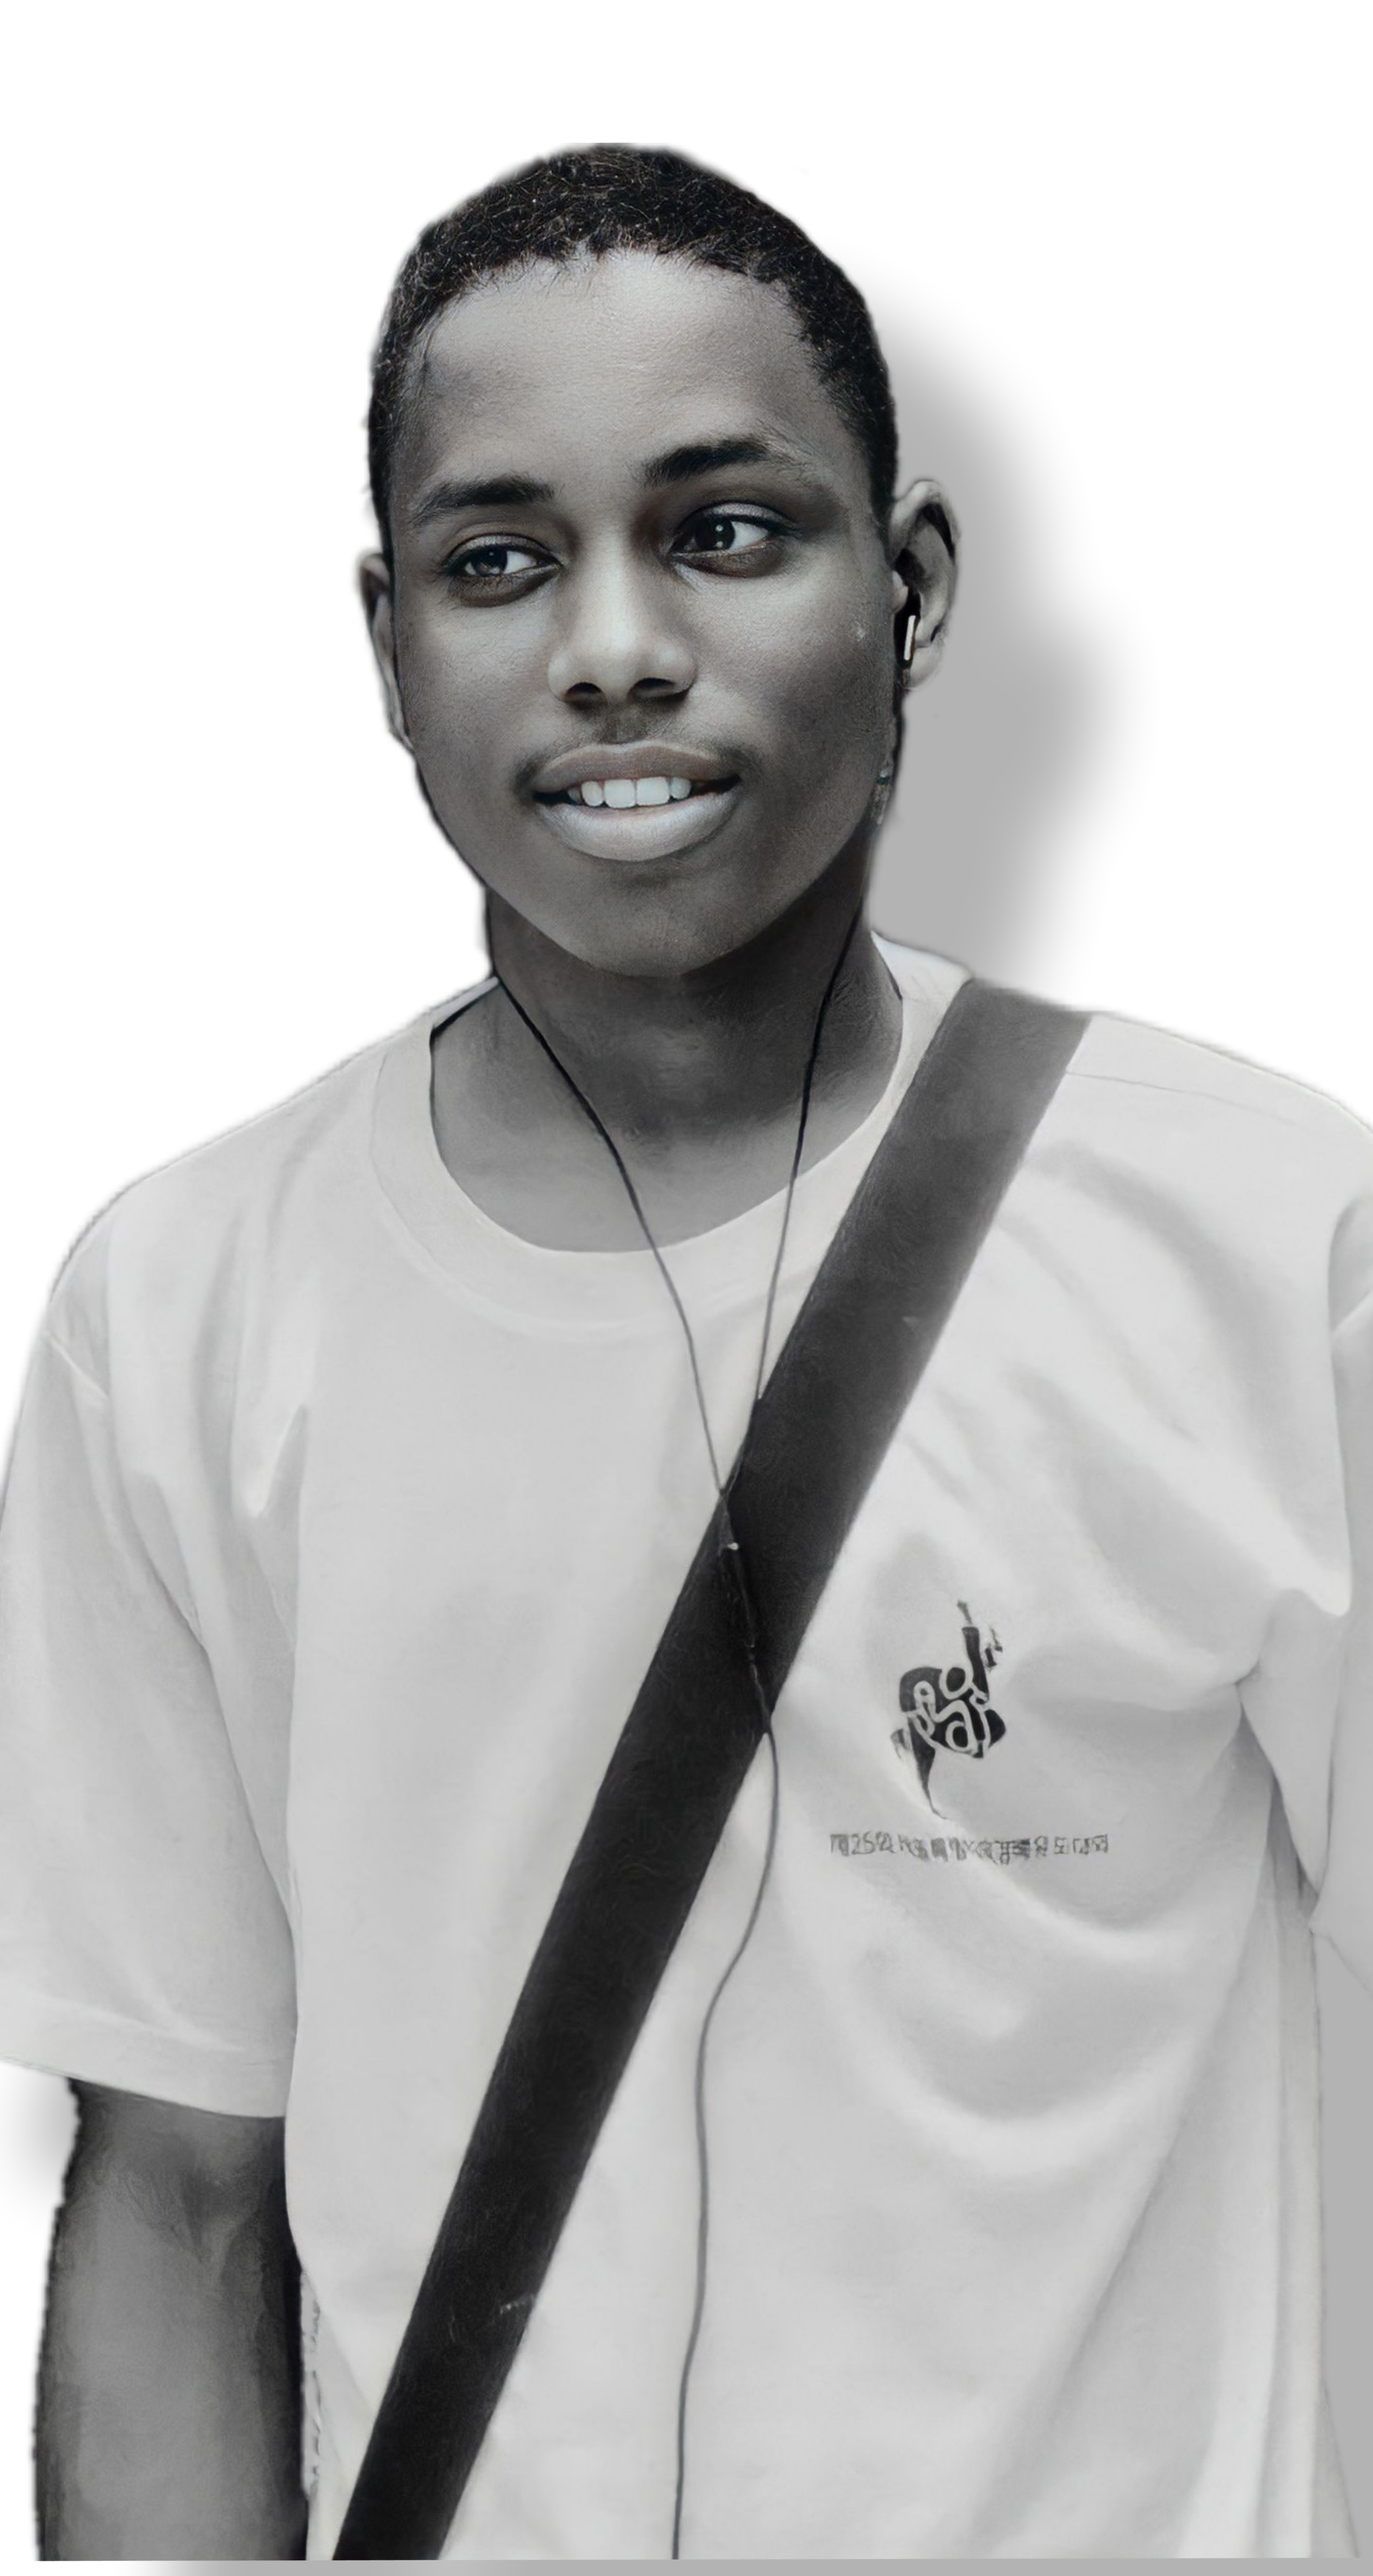
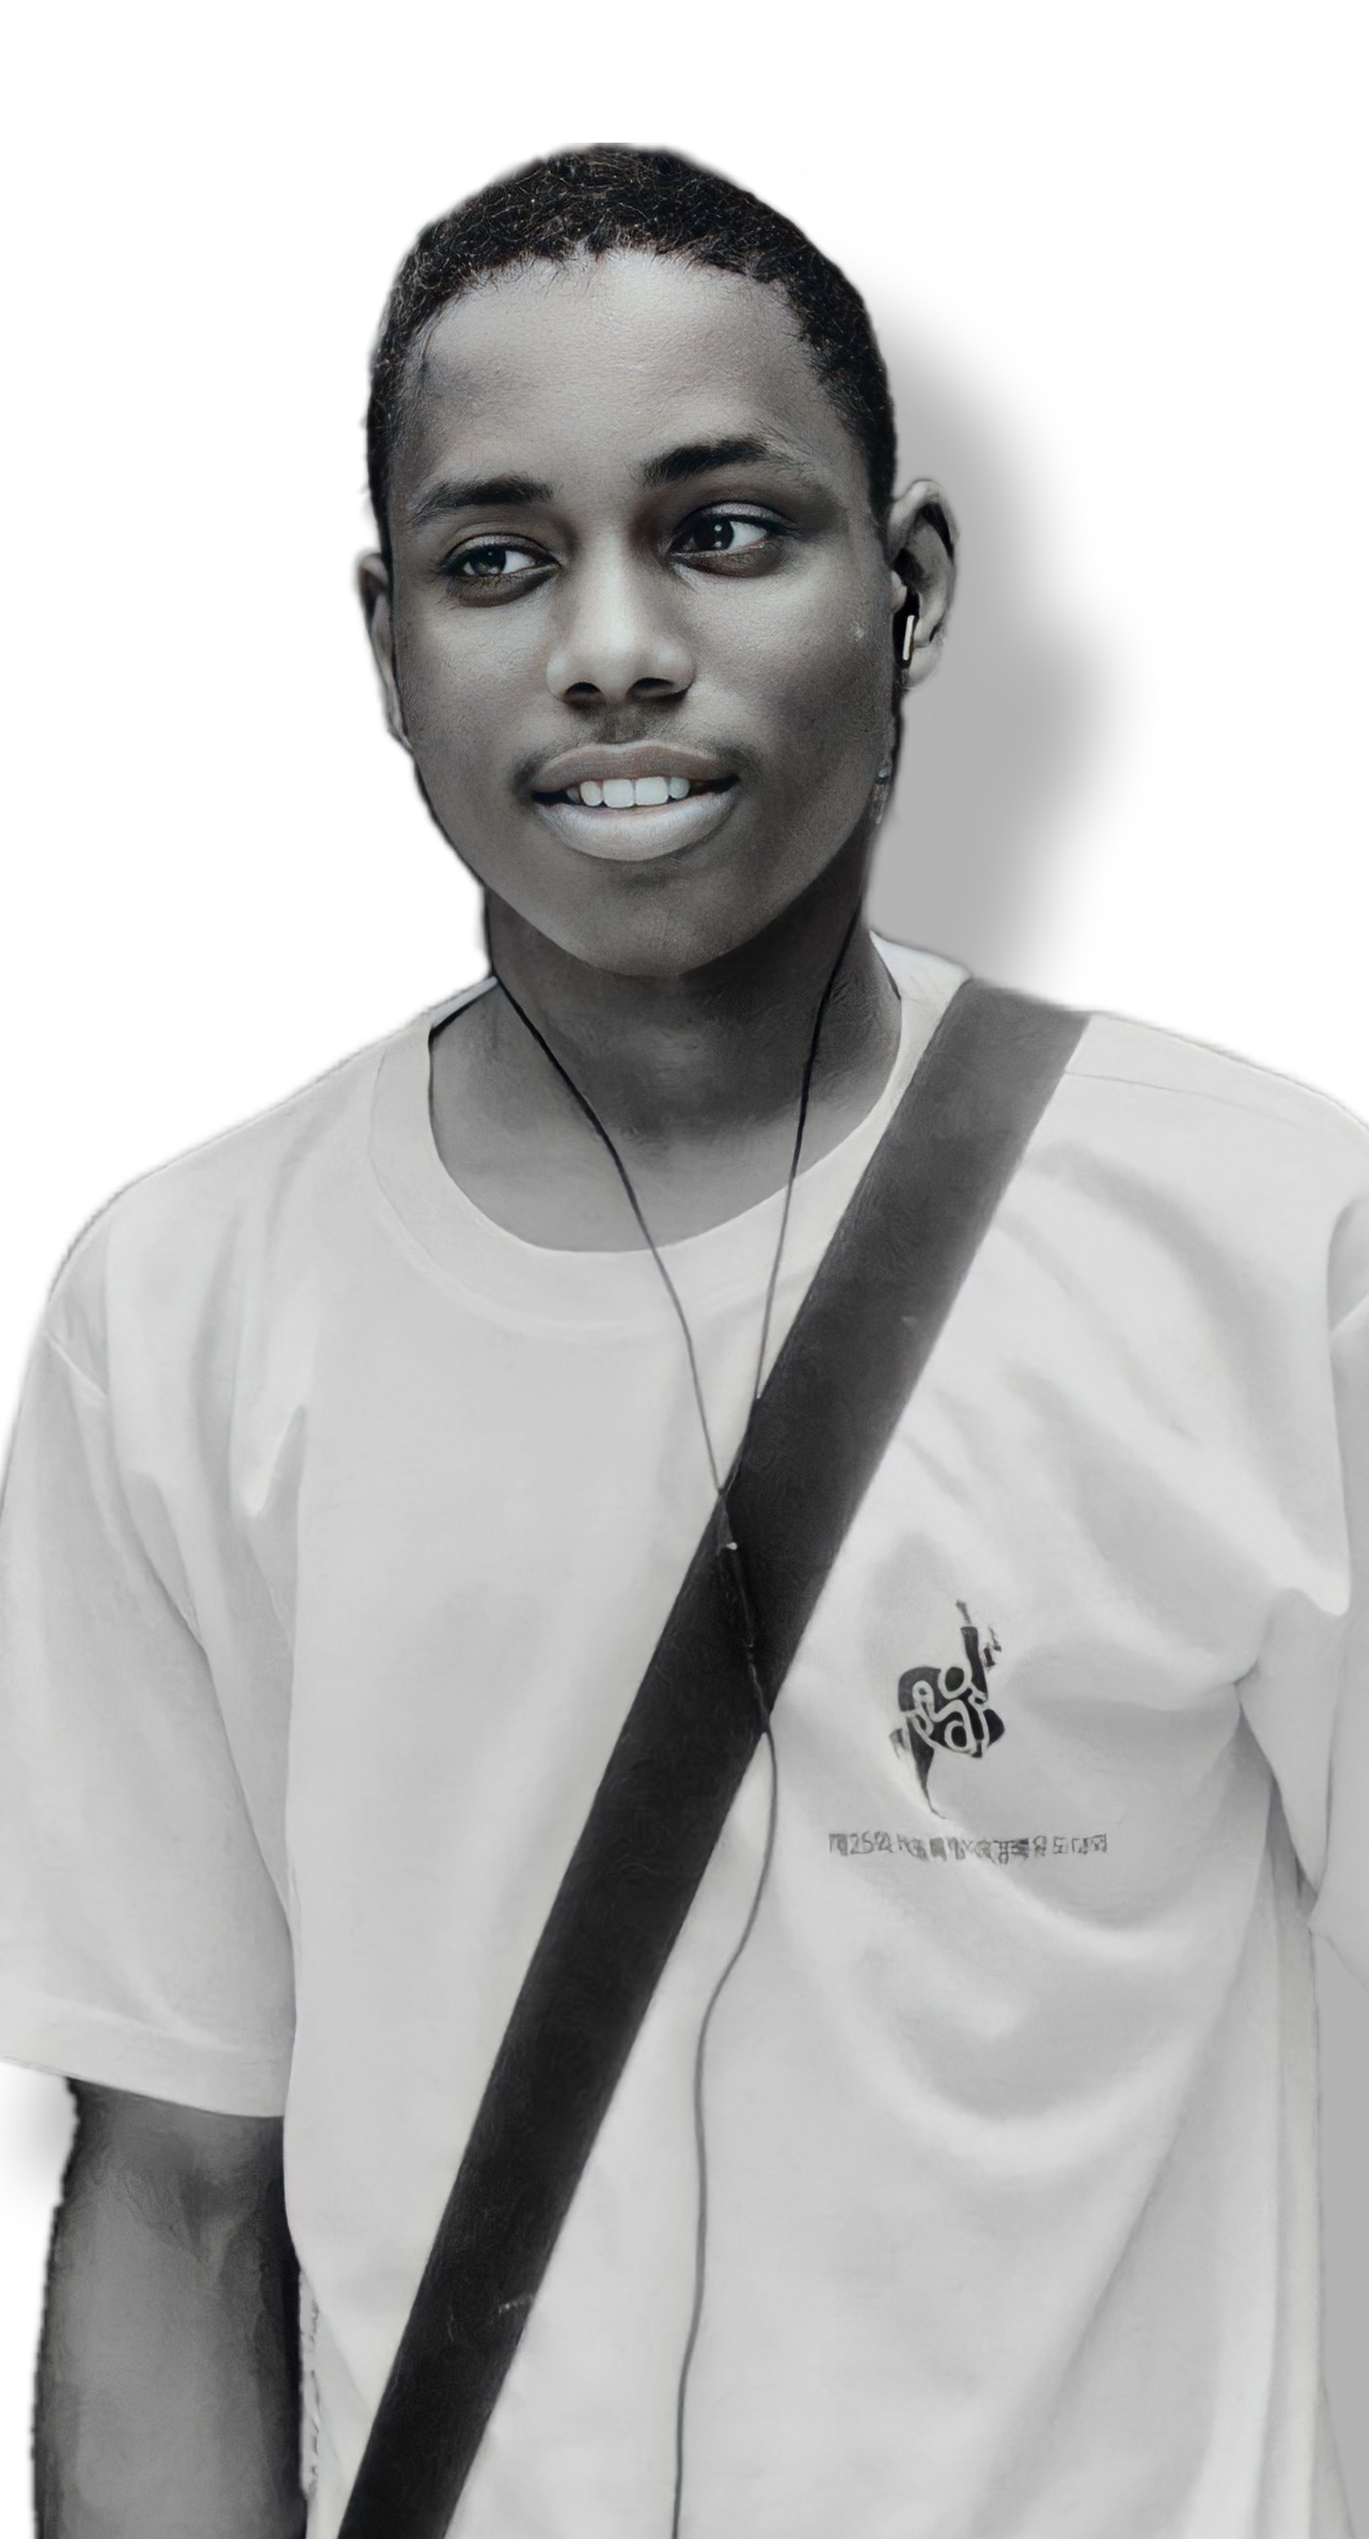
better resp

diff --git a/app/page.jsx b/app/page.jsx
@@ -9,7 +9,7 @@ import JS from '../public/download.png'
 import TS from '../public/typescript k.png'
 import Reactjs from '../public/react-logo-text.jpg'
 import Nextjs from '../public/nextjs-logo.png'
-import MyPic from '../public/mypic2.jpg'
+import MyPic from '../public/my pic shadow.png'
 import Logo from '../public/logo.jpg'
 import Web1 from '../public/web1.png'
 
@@ -34,13 +34,13 @@ export default function Home() {
         </div>
         <div className='relative flex justify-center px-6'>
           <div className='absolute top-0 left-0 w-full h-full z-10'/>
-          <div className='relative lg:w-[650px] md:w-[560px] sm:w-fit px-10 z-0'>
+          <div className='relative bg-[#ffffff] rounded-t-xl lg:w-[650px] md:w-[560px] sm:w-fit mt-20 px-10 max-sm:px-5 z-0'>
             <div className={`pt-32 pb-6 ${sigmar.className}`}>
-              <h1 className='text-xl max-sm:text-lg'>Hello 👋, My name is</h1>
-              <h1 className='text-5xl max-sm:text-4xl bg-orange-600 w-fit px-2 rounded-lg'>Abdulkareem</h1>
-              <h1 className='text-2xl max-sm:text-xl'>and I'm a</h1>
-              <h1 className='text-3xl max-sm:text-2xl bg-blue-700 w-fit px-2 rounded-lg rounded-bl-none'>Front-End Web</h1>
-              <h1 className='text-3xl max-sm:text-2l bg-blue-700 w-fit px-2 rounded-lg rounded-t-none'>Developer</h1>
+              <h1 className='text-xl text-bg max-sm:text-sm'>Hello 👋, My name is</h1>
+              <h1 className='text-5xl max-sm:text-2xl bg-orange-600 w-fit px-2 bg-opacity-70 rounded-lg'>Abdulkareem</h1>
+              <h1 className='text-2xl text-bg max-sm:text-xs'>and I'm a</h1>
+              <h1 className='text-3xl max-sm:text-lg bg-blue-700 w-fit px-2 bg-opacity-70 rounded-lg rounded-bl-none'>Front-End Web</h1>
+              <h1 className='text-3xl max-sm:text-lg bg-blue-700 w-fit px-2 bg-opacity-70 rounded-lg rounded-t-none'>Developer</h1>
               <div className='flex gap-3 mt-4 pl-2 pr-8 max-sm:gap-0'>
                 <Image className='h-5 w-6 max-sm:scale-75 ' src={HTML5} />
                 <Image className='h-5 w-6 max-sm:scale-75 ' src={CSS3} />
@@ -50,7 +50,7 @@ export default function Home() {
                 <Image className='h-5 w-14 max-sm:scale-75 ' src={Nextjs} />
               </div>
             </div>
-            <div className='w-80 absolute right-0 bottom-0 -z-10'>
+            <div className='w-72 max-sm:w-60 absolute right-0 bottom-0 -z-10'>
               <Image className='w-full' src={MyPic} />
             </div>
           </div>
@@ -66,16 +66,13 @@ export default function Home() {
             and I'm excited to bring my fun and outgoing personality to any project. Let's create something awesome together!
           </p>
           <div className='flex gap-3 sm:justify-start justify-center mt-10 text-3xl text-center'>
-            <a href="">
+            <a href="https://github.com/Abdulkareem1094">
               <AiFillGithub/>
             </a>
-            <a href="">
-              <AiFillMail/>
-            </a>
-            <a href="">
+            <a href="https://www.linkedin.com/in/abdulkareem-tukur-b1b229262">
               <AiFillLinkedin/>
             </a>
-            <a href="">
+            <a href="https://twitter.com/ak_mt__?t=imTLdVgtoV8UfZYEjd6yWg&s=09">
               <AiFillTwitterCircle/>
             </a>
           </div>
@@ -144,7 +141,7 @@ export default function Home() {
         </div>
       </div>
       
-      <div className='flex flex-col bg-bg text-gray-400 p-6 mt-32'>
+      <div className='flex flex-col bg-bg text-gray-400 mt-32'>
         <ContactForm />
         <h1 className='text-center'>MadeByAbdulkareem</h1>
       </div>
@@ -161,7 +158,7 @@ function ContactForm() {
       return <p>Email successfully sent!</p>;
   }
   return (
-    <form className=' text-sm flex gap-6 flex-col text-left w-96 text-bg bg-bg p-6' onSubmit={handleSubmit}>
+    <form className=' text-sm flex gap-6 flex-col text-left w-96 max-sm:w-60 text-bg bg-bg p-3' onSubmit={handleSubmit}>
       <h1 className='text-3xl text-white font-bold'>Get in touch</h1>
       <div className='flex flex-col' >
         <input
